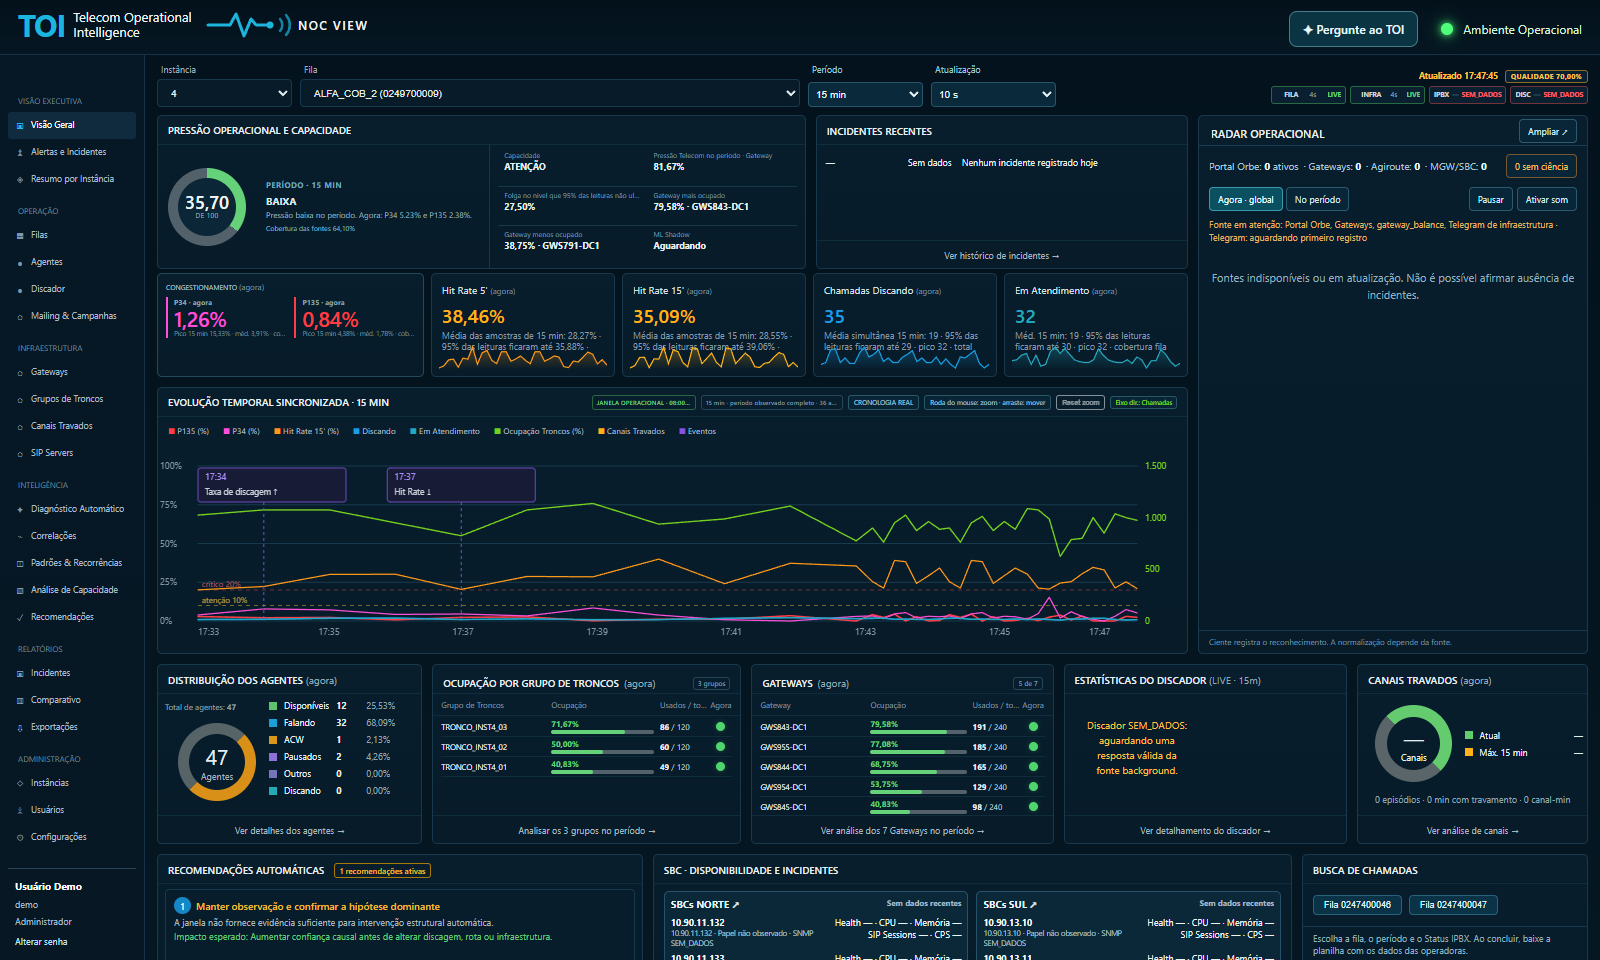
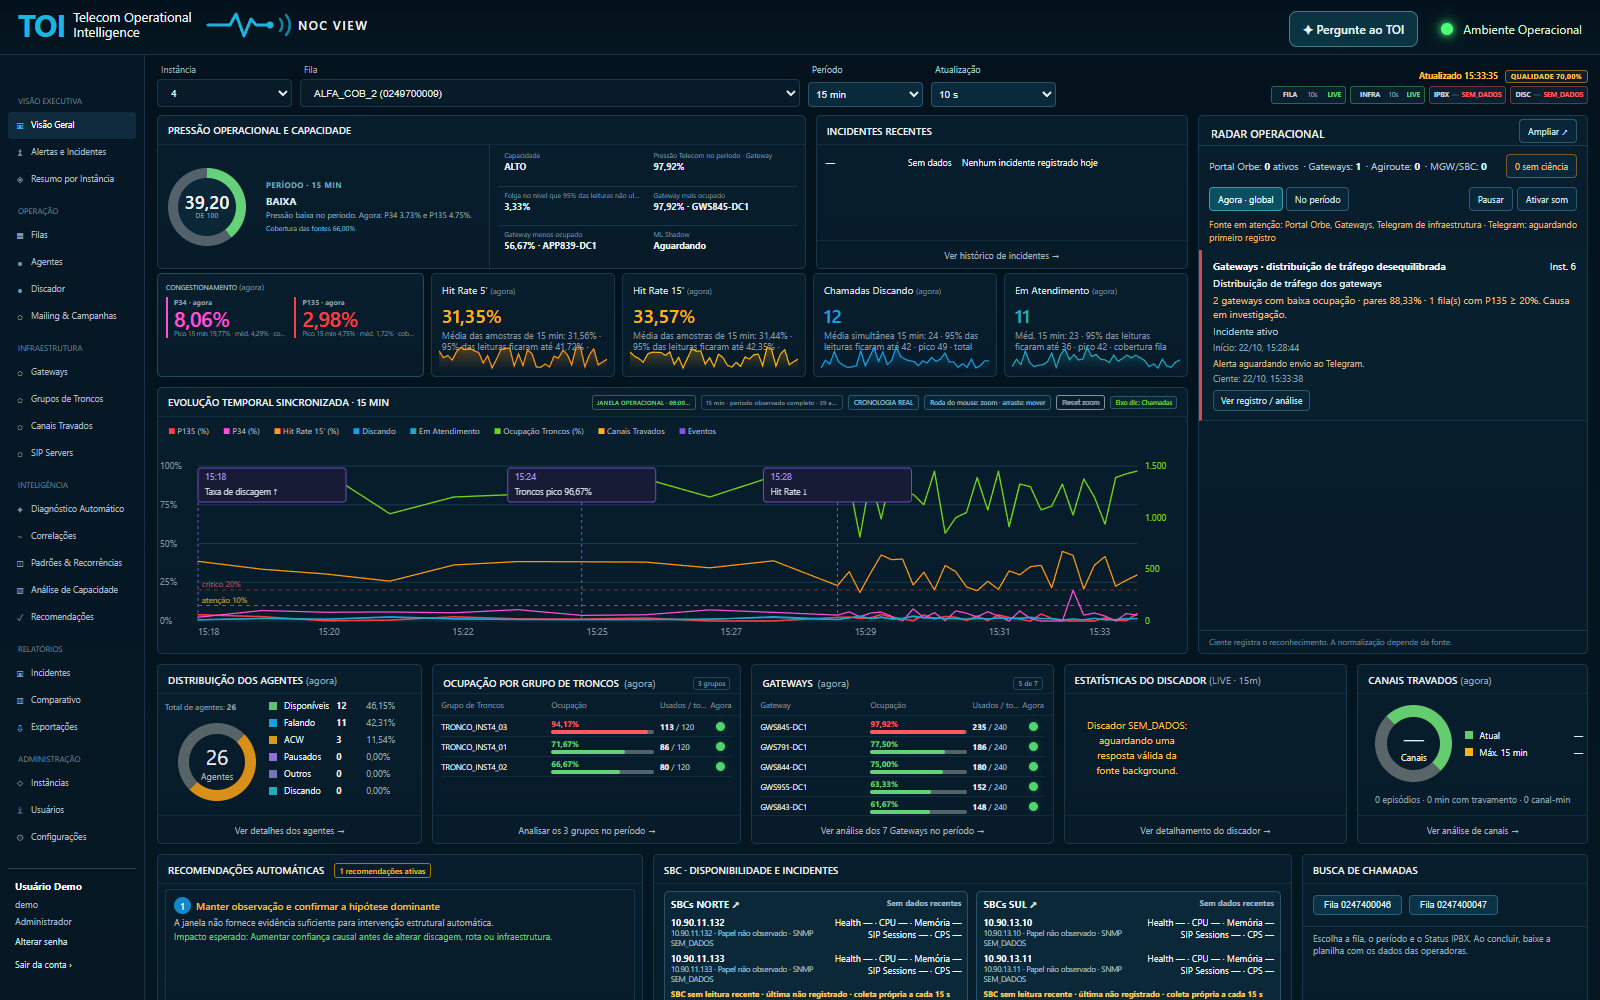
Destaca o Radar Operacional e os alarmes de gateway, com prints
README ganha a seção Destaques de operação: Radar Operacional,
alarmes de baixa ocupação dos gateways e alarmes no Telegram, com
prints tirados da demo. A demo passa a simular, na Instância 6, dois
gateways com baixa ocupação, para o Radar confirmar o alarme pelo
mesmo código de produção.

Changed region(s): [[0.0, 0.0, 1.0, 1.0], [0.0, 0.0, 0.1562, 0.0625], [0.1875, 0.0, 0.2188, 0.0312]]

diff --git a/demo/seed_demo.py b/demo/seed_demo.py
@@ -33,6 +33,14 @@ DEFAULT_DB = ROOT / "dados_toi" / "live" / "toi_demo.sqlite"
 STEP_S = 60
 FOLLOW_S = 10
 
+# Cenário fictício para o Radar Operacional: na Instância 6, dois gateways ficam com
+# baixa ocupação enquanto os pares estão acima de 80% e uma fila congestiona (P135).
+# O Radar detecta, confirma após 3 min e abre o alarme de baixa ocupação, como em produção.
+SCENARIO_INSTANCE = "6"
+SCENARIO_LOW_GATEWAYS = {"GWS927-CLD", "GWS928-CLD"}
+SCENARIO_QUEUE = "0255800015"
+SCENARIO_HISTORY = timedelta(minutes=30)
+
 
 def load_queues():
     scope = json.loads((APP / "toi_demo_scope_v1.json").read_text(encoding="utf-8"))
@@ -58,7 +66,7 @@ def daily_wave(ts: datetime) -> float:
     return 0.15 + 0.85 * max(0.0, math.sin(math.pi * (hour - 8) / 13)) if 8 <= hour <= 21 else 0.15
 
 
-def queue_row(q, ts: datetime, rng: random.Random):
+def queue_row(q, ts: datetime, rng: random.Random, scenario: bool = False):
     load = daily_wave(ts) * rng.uniform(0.8, 1.2)
     agents = max(1, int(40 * load * rng.uniform(0.6, 1.4)))
     talking = int(agents * rng.uniform(0.4, 0.8))
@@ -68,6 +76,8 @@ def queue_row(q, ts: datetime, rng: random.Random):
     calls = int(talking * rng.uniform(2.5, 4.5))
     p34 = round(min(35.0, max(0.0, rng.gauss(4, 3) * (2.5 if rng.random() < 0.04 else 1))), 2)
     p135 = round(min(20.0, max(0.0, rng.gauss(2, 1.5))), 2)
+    if scenario and q["instancia"] == SCENARIO_INSTANCE and q["codigo"] == SCENARIO_QUEUE:
+        p135 = round(rng.uniform(24, 31), 2)
     hit5 = round(rng.uniform(18, 42), 2)
     d1 = {"QtAgentsAvailable": available, "QtAgentsTalking": talking, "QtAgentsAcw": acw,
           "QtAgentsPaused": paused, "QtAgentsOther": 0, "QtAgentsDialing": 0,
@@ -87,13 +97,16 @@ def queue_row(q, ts: datetime, rng: random.Random):
             lat_q, lat_s, 0.0, json.dumps(d1, ensure_ascii=False), json.dumps(d2, ensure_ascii=False))
 
 
-def infra_rows(inst: str, gateways: list[str], ts: datetime, rng: random.Random):
+def infra_rows(inst: str, gateways: list[str], ts: datetime, rng: random.Random, scenario: bool = False):
     load = daily_wave(ts)
     rows = []
     gw_list, trunk_list = [], []
     for name in gateways:
         total = 240
         busy = int(total * min(0.98, load * rng.uniform(0.5, 1.1)))
+        if scenario and inst == SCENARIO_INSTANCE:
+            share = rng.uniform(0.08, 0.15) if name in SCENARIO_LOW_GATEWAYS else rng.uniform(0.84, 0.96)
+            busy = int(total * share)
         gw_list.append({"NmGateway": name, "QtValidsTotal": total, "QtValidsBusy": busy,
                         "QtValidsIdle": total - busy, "VlPercValidsBusy": round(100 * busy / total, 2),
                         "QtInvalidsTotal": rng.randint(0, 3)})
@@ -113,12 +126,12 @@ def infra_rows(inst: str, gateways: list[str], ts: datetime, rng: random.Random)
     return rows
 
 
-def write_tick(store, queues, gateways, ts, rng):
+def write_tick(store, queues, gateways, ts, rng, scenario=False):
     store.many("INSERT INTO queue_snapshot VALUES(" + ",".join(["?"] * 31) + ")",
-               [queue_row(q, ts, rng) for q in queues])
+               [queue_row(q, ts, rng, scenario) for q in queues])
     insts = sorted({q["instancia"] for q in queues})
     store.many("INSERT INTO infra_snapshot VALUES(?,?,?,?,?,?,?,?,?,?,?)",
-               [r for inst in insts for r in infra_rows(inst, gateways.get(inst, []), ts, rng)])
+               [r for inst in insts for r in infra_rows(inst, gateways.get(inst, []), ts, rng, scenario)])
 
 
 def ensure_demo_user():
@@ -148,13 +161,13 @@ def main() -> int:
     now = datetime.now(timezone.utc).replace(microsecond=0)
     ts = now - timedelta(hours=args.hours)
     while ts <= now:
-        write_tick(store, queues, gateways, ts, rng)
+        write_tick(store, queues, gateways, ts, rng, scenario=now - ts <= SCENARIO_HISTORY)
         ts += timedelta(seconds=STEP_S)
     ensure_demo_user()
     print(f"Base demo pronta: {args.db} ({len(queues)} filas fictícias). Login: {DEMO_LOGIN}")
     while args.follow:
         time.sleep(FOLLOW_S)
-        write_tick(store, queues, gateways, datetime.now(timezone.utc).replace(microsecond=0), rng)
+        write_tick(store, queues, gateways, datetime.now(timezone.utc).replace(microsecond=0), rng, scenario=True)
     return 0
 
 

diff --git a/README.md b/README.md
@@ -8,7 +8,49 @@ Projeto desenvolvido e operado por mim, de ponta a ponta: coleta, banco, painel,
 
 > Todos os nomes de empresas, clientes, operadoras, hostnames, IPs e filas deste repositório são **fictícios**, e as métricas de ML vêm de dados **sintéticos** reproduzíveis.
 
-![Painel — visão geral](docs/visao-geral.png)
+![Painel — visão geral, com o Radar Operacional à direita](docs/visao-geral.png)
+
+## Destaques de operação
+
+### Radar Operacional
+
+Um único painel com **todos os incidentes ativos de todas as instâncias**: filas do discador (Portal), gateways, Agiroute e MGW/SBC. Ele roda num processo próprio a cada 5 segundos, independente de alguém estar com o painel aberto, e grava num banco separado, sem tocar na coleta.
+
+- Cada incidente tem um ciclo de vida explícito: **condição observada → confirmação → incidente ativo → normalização confirmada**. Oscilações curtas não viram alarme.
+- O alarme abre um aviso na tela, com som opcional, até alguém registrar **ciência**. A ciência e a normalização ficam gravadas como eventos do incidente, com horário.
+- Visões **"Agora · global"** e **"No período"**, com histórico, contagem de recorrências e o estado de envio de cada alarme ao Telegram.
+
+<p>
+  <img src="docs/radar-painel.png" width="34%" alt="Painel do Radar Operacional com um incidente ativo">
+  <img src="docs/radar-alarme.png" width="54%" alt="Alarme de baixa ocupação aberto no Radar">
+</p>
+
+### Alarmes de baixa ocupação dos gateways
+
+Numa instância em que o tráfego deveria ser balanceado, o TOI compara cada gateway com os pares e abre um alarme quando alguns ficam ociosos enquanto o resto está saturado. É capacidade parada enquanto as filas congestionam.
+
+- **Regra explicável:** o gateway fica com no máximo 25% de ocupação e menos de 35% da mediana dos pares, pelo menos 40 p.p. abaixo dela, com a mediana em 80% ou mais e pelo menos metade dos gateways sob alta carga.
+- **Contexto antes do alarme:** gateways em standby, rota de reserva ou receptivo ficam fora da comparação, conforme o papel confirmado pela operação.
+- **Aprende o normal:** guarda um perfil de ocupação por gateway e faixa horária, maduro após 30 leituras em 3 dias, e passa a separar "queda em relação ao habitual" de "baixa habitual".
+- **Confirma e acompanha:** o alarme abre após 3 minutos contínuos e 6 amostras, e só normaliza após 5 minutos de recuperação, registrando o P135 das filas antes e depois.
+- **Não inventa causa:** cruza com as filas congestionadas (P135 ≥ 20%), as rotas observadas nas últimas chamadas e as respostas SIP 5xx, mas apresenta isso como coincidência e evidência, nunca como causa comprovada. Cada alarme vem com os passos de investigação.
+- Também há alarmes de **gateway sem resposta ICMP** e de **gateway sem ocupação** com expectativa de tráfego, os dois confirmados por 10 minutos.
+
+![Gateways da Instância 6: dois com baixa ocupação enquanto os pares passam de 85%](docs/gateways-baixa-ocupacao.png)
+
+### Alarmes no Telegram
+
+Os alarmes de gateway confirmados vão para um grupo no Telegram, com instância, gateways afetados, mediana dos pares, filas congestionadas, passos de investigação e o link para o TOI.
+
+- **Saída transacional (outbox) no SQLite:** cada incidente gera no máximo uma mensagem de abertura e uma de normalização, mesmo com reinícios.
+- **Sem mensagem duplicada:** se a resposta do Telegram se perde, o envio fica como "não confirmado" e não é repetido às cegas.
+- **Respeita o Telegram:** usa o `retry_after` do erro 429, tenta de novo em falhas 5xx e não reenvia o histórico ao ligar o bot.
+- **Só envia evidência fresca:** se a condição terminar antes do envio, a mensagem é cancelada.
+- O token e o chat ficam em variáveis de ambiente, fora do repositório.
+
+<img src="docs/telegram-alarme.png" width="60%" alt="Alarme de baixa ocupação no Telegram">
+
+<sub>O texto da mensagem é o gerado pelo TOI para o alarme da demonstração (`RadarService.gateway_telegram_text`). Só o layout do chat foi reproduzido, porque a demo não envia mensagens.</sub>
 
 ## Destaques de engenharia de ML
 
@@ -42,7 +84,7 @@ O baseline explicável já supera a regra com folga. O GBM ganha pouco, e esse g
 - **Infraestrutura**: ocupação de gateways e grupos de troncos, canais travados, inventário de SIP servers e sessões por realm nos SBCs (SNMP e ACLI, somente leitura).
 - **Linha do tempo sincronizada**: todas as métricas no mesmo eixo, com eventos e zoom.
 - **Inteligência**: diagnóstico automático, correlações, padrões e recorrências, análise de capacidade e recomendações.
-- **Alertas**: confirmação de incidentes com janela de normalização, Telegram, receptor de traps SNMP e abertura de chamados no Redmine.
+- **Radar e alertas**: Radar Operacional global, alarmes de baixa ocupação e de indisponibilidade de gateways, confirmação de incidentes com janela de normalização, Telegram, receptor de traps SNMP e abertura de chamados no Redmine.
 - **Assistente local**: perguntas em linguagem natural sobre os dados, respondidas por um LLM local (Ollama).
 - **Acesso**: Argon2id, papéis (Administrador, Gestor, Operador, Consulta), CSRF e trilha de auditoria.
 
@@ -113,6 +155,8 @@ pip install -r requirements.txt
 | Testes: os 56 testes do projeto | `python -m unittest discover -s tests -p "test_*.py"` |
 | Painel com dados fictícios. Abra http://127.0.0.1:8099/toi/login com o usuário `demo` (a senha está em [`demo/seed_demo.py`](demo/seed_demo.py)) e use `Ctrl+C` para parar | `python demo/run_demo.py` |
 
+Na demo, a Instância 6 simula dois gateways com baixa ocupação. Cerca de 3 minutos depois de abrir o painel, o Radar confirma o alarme, desde que o relógio esteja na janela operacional (padrão: 8h às 21h).
+
 Se o prompt já mostra `(.venv)`, o ambiente está ativo. Ao abrir um terminal novo, entre na pasta `TOI` e rode de novo só a linha de ativação.
 
 ## Estrutura
@@ -141,6 +185,12 @@ As credenciais ficam fora do repositório, num arquivo de ambiente lido pelas un
 <summary><b>English summary</b></summary>
 
 **TOI** is an observability platform for contact-center/telecom operations, built and run end to end by me. It samples dialer queues, gateways, SIP trunks and SBCs every 10 s into SQLite, and serves a real-time dashboard with diagnosis and alerting.
+
+Operations highlights:
+
+- **Operational Radar.** A global view of every active incident (dialer queues, gateways, Agiroute, MGW/SBC) with explicit confirmation and normalization windows, on-screen alarms and acknowledgement tracking.
+- **Low gateway occupancy alarms.** Each gateway is compared with its peers; idle gateways next to saturated ones open an explainable alarm, with learned hourly baselines, role-aware exclusions and investigation steps, never claiming a proven root cause.
+- **Telegram alerts.** A transactional SQLite outbox sends at most one open and one normalization message per incident, never blindly resends after an ambiguous response, and honours Telegram rate limits.
 
 ML engineering highlights:
 
